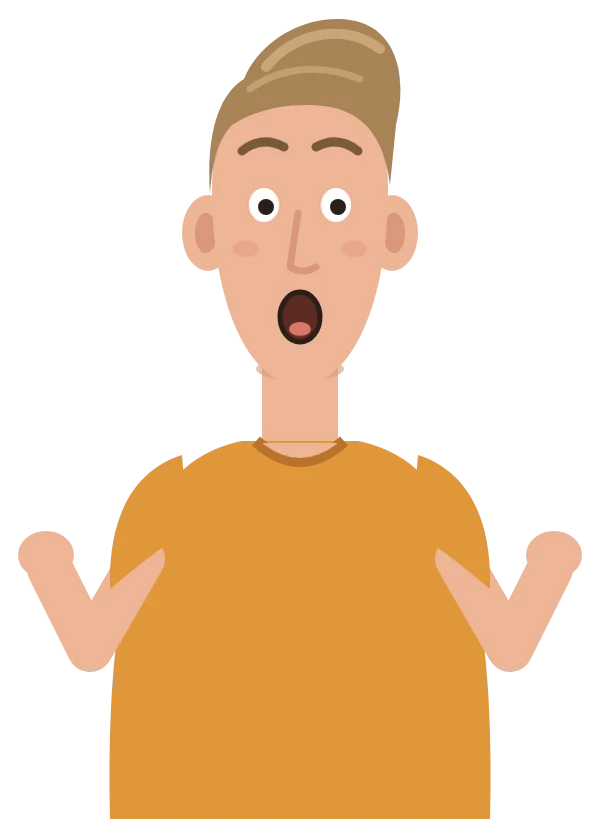
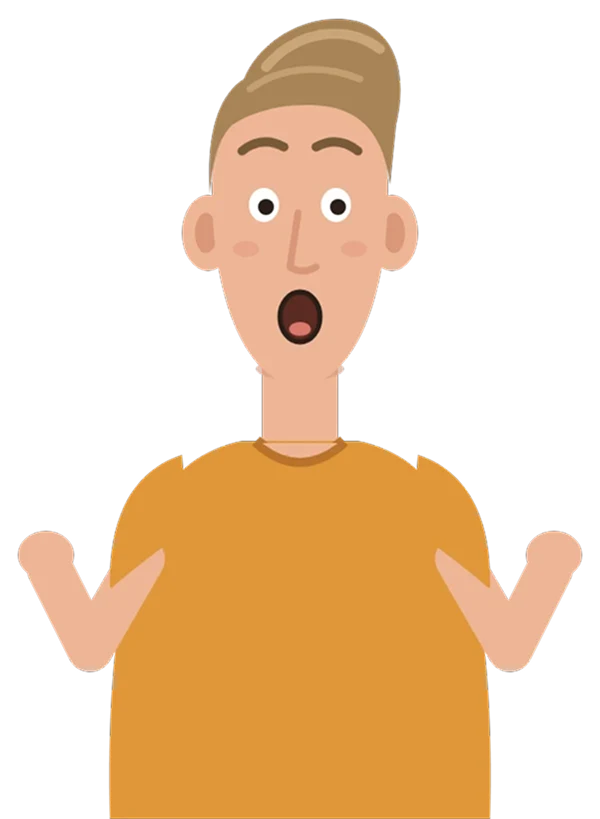
Aktualizovat postavy na nova kresby (818/799 px)
Nove webp (konvertovane z PNG) nahrazuji stare verze 840/820 px.
Opraveny atributy width/height ve vsech HTML souborech.

diff --git a/o-nas.html b/o-nas.html
@@ -31,7 +31,7 @@
     <h1>Dva kámoši ze střední.</h1>
     <p class="lead">Finance děláme poctivě a lidsky.</p>
   </div>
-  <div class="stage"><div class="actor"><p class="bubble">Proč Brzda?</p><img src="assets/postavy/lukas_grin_clasp.webp" width="600" height="840" alt="Kreslený Lukáš"></div><div class="actor"><p class="bubble">Protože ho brzdím.</p><img src="assets/postavy/stana_grin_crossed.webp" width="560" height="820" alt="Kreslený Staňa"></div></div>
+  <div class="stage"><div class="actor"><p class="bubble">Proč Brzda?</p><img src="assets/postavy/lukas_grin_clasp.webp" width="600" height="818" alt="Kreslený Lukáš"></div><div class="actor"><p class="bubble">Protože ho brzdím.</p><img src="assets/postavy/stana_grin_crossed.webp" width="560" height="799" alt="Kreslený Staňa"></div></div>
 </div></section>
 
 <section class="section"><div class="wrap">
@@ -41,7 +41,7 @@
       <div class="body"><span class="role">Hlas rozumu</span><h3>Staňa</h3><p>Čte smlouvy do posledního řádku. V autě vozí tři trojúhelníky. Pro jistotu.</p><span class="tel"><a href="tel:+420734819744">+420 734 819 744</a></span></div>
     </article>
     <article class="person">
-      <div class="pic"><img class="cartoon" src="assets/postavy/lukas_grin_clasp.webp" alt="Kreslený Lukáš" width="600" height="840" loading="lazy"></div>
+      <div class="pic"><img class="cartoon" src="assets/postavy/lukas_grin_clasp.webp" alt="Kreslený Lukáš" width="600" height="818" loading="lazy"></div>
       <div class="body"><span class="role">Ptá se za vás</span><h3>Lukáš</h3><p>Zeptá se na to, na co se vy stydíte. Staňa ho brzdí, proto Brzda.</p><span class="tel"><a href="tel:+420773930818">+420 773 930 818</a></span></div>
     </article>
   </div>

diff --git a/index.html b/index.html
@@ -30,7 +30,7 @@
     </div>
     <p class="note">Pojištění, hypotéky a penzijko. Porovnáme víc pojišťoven.</p>
   </div>
-  <div class="stage"><div class="actor"><p class="bubble">Kryje to všechno?</p><img src="assets/postavy/lukas_grin_clasp.webp" width="600" height="840" alt="Kreslený Lukáš"></div><div class="actor"><p class="bubble">Ukaž. Přečteme to celé.</p><img src="assets/postavy/stana_grin_crossed.webp" width="560" height="820" alt="Kreslený Staňa"></div></div>
+  <div class="stage"><div class="actor"><p class="bubble">Kryje to všechno?</p><img src="assets/postavy/lukas_grin_clasp.webp" width="600" height="818" alt="Kreslený Lukáš"></div><div class="actor"><p class="bubble">Ukaž. Přečteme to celé.</p><img src="assets/postavy/stana_grin_crossed.webp" width="560" height="799" alt="Kreslený Staňa"></div></div>
 </div></section>
 
 <section class="section"><div class="wrap">
@@ -76,8 +76,8 @@
     <div class="actions" style="margin-top:8px"><a class="btn btn-secondary" href="o-nas.html">Víc o nás</a></div>
   </div>
   <div class="stage" style="max-width:420px">
-    <div class="actor"><img src="assets/postavy/lukas_wow_shrug.webp" alt="Kreslený Lukáš" width="600" height="840" loading="lazy"></div>
-    <div class="actor"><img src="assets/postavy/stana_smile_crossed.webp" alt="Kreslený Staňa" width="560" height="820" loading="lazy"></div>
+    <div class="actor"><img src="assets/postavy/lukas_wow_shrug.webp" alt="Kreslený Lukáš" width="600" height="818" loading="lazy"></div>
+    <div class="actor"><img src="assets/postavy/stana_smile_crossed.webp" alt="Kreslený Staňa" width="560" height="799" loading="lazy"></div>
   </div>
 </div></section>
 

diff --git a/pojisteni.html b/pojisteni.html
@@ -32,7 +32,7 @@
     <p class="lead">Přečteme ji celou a porovnáme víc pojišťoven.</p>
     <div class="actions"><a class="btn btn-primary" href="#formular">Chci to zkontrolovat</a></div>
   </div>
-  <div class="stage"><div class="actor"><p class="bubble">Švagr má povinko o šest stovek levnější!</p><img src="assets/postavy/lukas_wow_shrug.webp" width="600" height="840" alt="Kreslený Lukáš"></div><div class="actor"><p class="bubble">A jaké má limity?</p><img src="assets/postavy/stana_skeptic_crossed.webp" width="560" height="820" alt="Kreslený Staňa"></div></div>
+  <div class="stage"><div class="actor"><p class="bubble">Švagr má povinko o šest stovek levnější!</p><img src="assets/postavy/lukas_wow_shrug.webp" width="600" height="818" alt="Kreslený Lukáš"></div><div class="actor"><p class="bubble">A jaké má limity?</p><img src="assets/postavy/stana_skeptic_crossed.webp" width="560" height="799" alt="Kreslený Staňa"></div></div>
 </div></section>
 
 <section class="section"><div class="wrap">

diff --git a/uvery-a-hypoteky.html b/uvery-a-hypoteky.html
@@ -32,7 +32,7 @@
     <p class="lead">Hypotéky, refinancování a úvěry.<br>Porovnáme víc nabídek.</p>
     <div class="actions"><a class="btn btn-primary" href="#formular">Chci porovnat</a></div>
   </div>
-  <div class="stage"><div class="actor"><p class="bubble">Banka mi poslala novou nabídku.</p><img src="assets/postavy/lukas_doubt_clasp.webp" width="600" height="840" alt="Kreslený Lukáš"></div><div class="actor"><p class="bubble">Super. Tak ji porovnáme.</p><img src="assets/postavy/stana_smile_crossed.webp" width="560" height="820" alt="Kreslený Staňa"></div></div>
+  <div class="stage"><div class="actor"><p class="bubble">Banka mi poslala novou nabídku.</p><img src="assets/postavy/lukas_doubt_clasp.webp" width="600" height="818" alt="Kreslený Lukáš"></div><div class="actor"><p class="bubble">Super. Tak ji porovnáme.</p><img src="assets/postavy/stana_smile_crossed.webp" width="560" height="799" alt="Kreslený Staňa"></div></div>
 </div></section>
 
 <section class="section"><div class="wrap">

diff --git a/penzijko.html b/penzijko.html
@@ -32,7 +32,7 @@
     <p class="lead">Nastavíme penzijko tak, aby stát přidal co nejvíc.</p>
     <div class="actions"><a class="btn btn-primary" href="#formular">Chci víc od státu</a></div>
   </div>
-  <div class="stage"><div class="actor"><p class="bubble">Švagr si spoří tři stovky.</p><img src="assets/postavy/lukas_grin_clasp.webp" width="600" height="840" alt="Kreslený Lukáš"></div><div class="actor"><p class="bubble">Nula. Pod pět stovek nic.</p><img src="assets/postavy/stana_talk_point.webp" width="560" height="820" alt="Kreslený Staňa"></div></div>
+  <div class="stage"><div class="actor"><p class="bubble">Švagr si spoří tři stovky.</p><img src="assets/postavy/lukas_grin_clasp.webp" width="600" height="818" alt="Kreslený Lukáš"></div><div class="actor"><p class="bubble">Nula. Pod pět stovek nic.</p><img src="assets/postavy/stana_talk_point.webp" width="560" height="799" alt="Kreslený Staňa"></div></div>
 </div></section>
 
 <section class="section"><div class="wrap">

diff --git a/kontakt.html b/kontakt.html
@@ -31,7 +31,7 @@
     <h1>Ozvěte se.</h1>
     <p class="lead">Přijedeme za vámi, nebo to vyřešíme po telefonu. Zlínsko a Valašsko.</p>
   </div>
-  <div class="stage"><div class="actor"><p class="bubble">Staňo, kdo volá?</p><img src="assets/postavy/lukas_talk_phone.webp" width="600" height="840" alt="Kreslený Lukáš"></div><div class="actor"><p class="bubble">Klient. Ber to!</p><img src="assets/postavy/stana_smile_crossed.webp" width="560" height="820" alt="Kreslený Staňa"></div></div>
+  <div class="stage"><div class="actor"><p class="bubble">Staňo, kdo volá?</p><img src="assets/postavy/lukas_talk_phone.webp" width="600" height="818" alt="Kreslený Lukáš"></div><div class="actor"><p class="bubble">Klient. Ber to!</p><img src="assets/postavy/stana_smile_crossed.webp" width="560" height="799" alt="Kreslený Staňa"></div></div>
 </div></section>
 
 <section class="section section-navy" id="formular"><div class="wrap contact">

diff --git a/dekujeme.html b/dekujeme.html
@@ -26,7 +26,7 @@
 </div></header>
 <main id="obsah">
 <section class="simple"><div class="wrap">
-  <img src="assets/postavy/lukas_talk_phone.webp" alt="Kreslený Lukáš s telefonem" width="600" height="840">
+  <img src="assets/postavy/lukas_talk_phone.webp" alt="Kreslený Lukáš s telefonem" width="600" height="818">
   <h1>Díky! Máme to.</h1>
   <p class="lead">Ozveme se zpravidla ještě týž pracovní den. Připravte si fotku smlouvy, stačí první strana.</p>
   <a class="btn btn-secondary" href="index.html">Zpět na úvod</a>

diff --git a/404.html b/404.html
@@ -26,7 +26,7 @@
 </div></header>
 <main id="obsah">
 <section class="simple"><div class="wrap">
-  <img src="assets/postavy/lukas_wow_shrug.webp" alt="Kreslený Lukáš krčí rameny" width="600" height="840">
+  <img src="assets/postavy/lukas_wow_shrug.webp" alt="Kreslený Lukáš krčí rameny" width="600" height="818">
   <h1>Tahle stránka ujela.</h1>
   <p class="lead">Zkuste to od začátku.</p>
   <a class="btn btn-primary" href="index.html">Na úvod</a>
